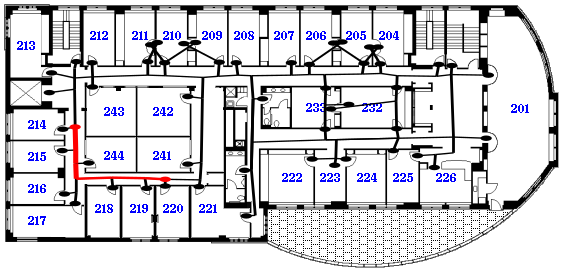
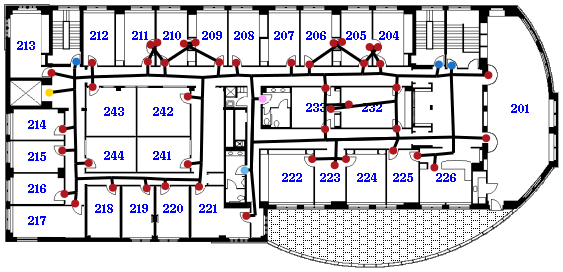
Fix scale of graphsdf Fix scale of graph

diff --git a/cairo/graph_draw.py b/cairo/graph_draw.py
@@ -1,3 +1,6 @@
+
+
+
 import math
 import cairo
 import json
@@ -18,16 +21,15 @@ context = cairo.Context (surface)
 WIDTH = cairo.ImageSurface.get_width(surface)
 HEIGHT = cairo.ImageSurface.get_height(surface)
 
-context.scale (WIDTH, HEIGHT)
+#context.scale (WIDTH, HEIGHT)
+SCALE = 1000
 
 
 def x_scale (x):
-	width = 1000.0
-	return (x + .5) / width
+	return (x + .5) * WIDTH / SCALE
 
 def y_scale (y):
-	height = 1000.0 * HEIGHT / WIDTH
-	return (y + .5) / height
+	return (y + .5) * WIDTH / SCALE
 
 def draw_node(cx,cy,r, rgb):
 	context.arc(x_scale(cx), y_scale(cy), r, 0, 2 * math.pi)
@@ -55,12 +57,12 @@ def draw_graph():
 				coords_1 = node.get('coords')
 			if node.get('id') is node_2:
 				coords_2 = node.get('coords')
-		draw_edge(coords_1[0], coords_1[1], coords_2[0], coords_2[1], [0,0,0], .005)
+		draw_edge(coords_1[0], coords_1[1], coords_2[0], coords_2[1], [0,0,0], 3)
 
 	for node in nodes:
 
 		if node.get('type') != 'walk':
-			draw_node(node.get('coords')[0], node.get('coords')[1], .01, colorFind(node.get('id')))
+			draw_node(node.get('coords')[0], node.get('coords')[1], 4, colorFind(node.get('id')))
 
 
 			
